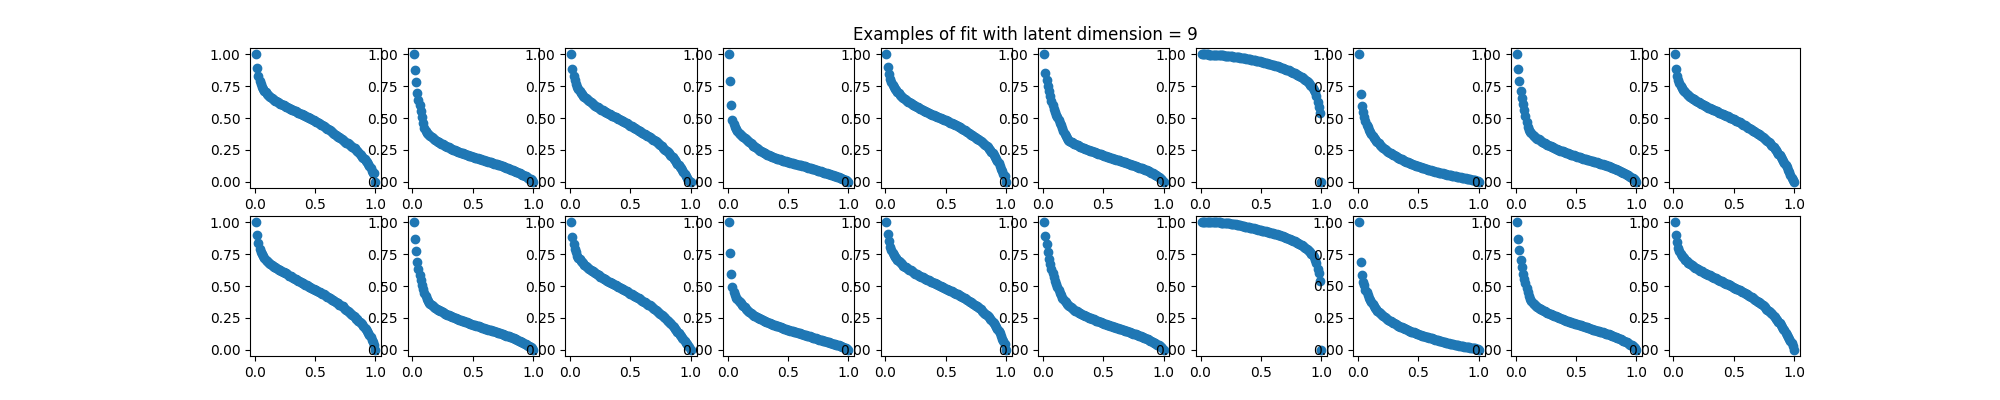
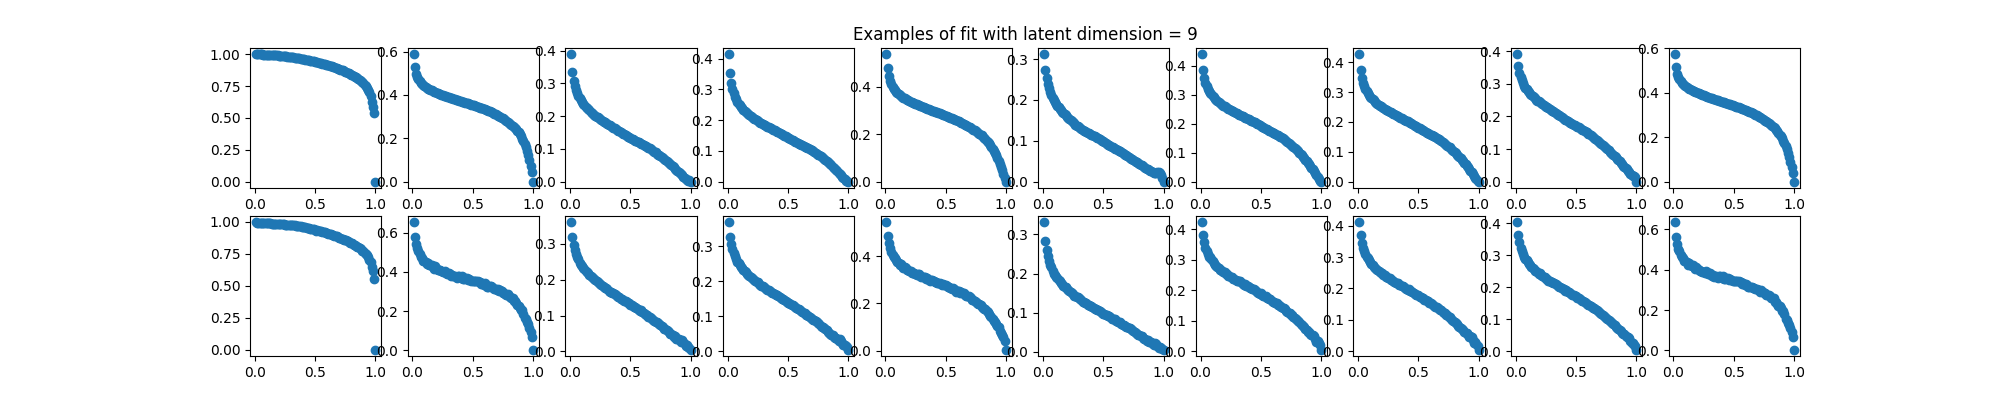
finished multi feature import (with more than 1 the network doesnt work tho)

diff --git a/project/main.py b/project/main.py
@@ -3,181 +3,151 @@ import pandas as pd
 import matplotlib.pyplot as plt
 import numpy as np
 import tensorflow as tf
-import os 
+import os
 import re
 
 from tensorflow import keras
-from sklearn.metrics import accuracy_score, precision_score, recall_score
 from sklearn.model_selection import train_test_split
-from keras import layers, losses, metrics
-from keras.datasets import fashion_mnist
+from keras import layers, losses
 from keras.models import Model
 from scipy.interpolate import UnivariateSpline
-from sklearn.preprocessing import MinMaxScaler
+from tqdm import tqdm
+
+##########IMPORT PARAMETERS##########
+cwd = os.getcwd()
+dir_names = ['MESA-Web_M07_Z00001', 'MESA-Web_M07_Z002']  # type 'all' if you want to use all the data
+column_filter = ['mass', 'radius', 'initial_mass', 'initial_z', 'star_age', 'logRho', 'logT',
+                 'Teff', 'energy', 'photosphere_L', 'photosphere_r', 'star_mass', 'h1', 'he3', 'he4']
+column_filter_train = ['logRho']  # radius is not included for coding reasons but is still considered
+n_points = 100  # n of points to sample from each profile
+r = np.linspace(0, 1, n_points + 1)[1:]  # values of normalized r on which to take the values of the variables
+
+if dir_names[0] == 'all':
+    dir_names = ['MESA-Web_M07_Z00001', 'MESA-Web_M07_Z002', 'MESA-Web_M10_Z002', 'MESA-Web_M10_Z0001',
+                 'MESA-Web_M10_Z00001', 'MESA-Web_M15_Z0001', 'MESA-Web_M15_Z00001', 'MESA-Web_M30_Z00001',
+                 'MESA-Web_M30_Z002', 'MESA-Web_M50_Z00001', 'MESA-Web_M50_Z002', 'MESA-Web_M50_Z001',
+                 'MESA-Web_M5_Z002', 'MESA-Web_M5_Z0001', 'MESA-Web_M1_Z00001', 'MESA-Web_M1_Z0001']
+
 
 ##Autoencoder class definition
 class Autoencoder(Model):
-    
     def __init__(self, encoder_neurons, decoder_neurons, encoder_activations, decoder_activations):
+        ##input check
+        if not len(encoder_neurons) == len(encoder_activations):
+            raise ValueError('The vector of neuron numbers for the encoder should be the same size of the activations')
+        if not len(decoder_neurons) == len(decoder_activations):
+            raise ValueError('The vector of neuron numbers for the decoder should be the same size of the activations')
 
-      ##input check
-      if not len(encoder_neurons)==len(encoder_activations):
-        raise ValueError('The vector of neuron numbers for the encoder should be the same size of the activations')
-      if not len(decoder_neurons)==len(decoder_activations):
-        raise ValueError('The vector of neuron numbers for the decoder should be the same size of the activations')
+        encoder_layers = []
+        decoder_layers = []
 
-      encoder_layers=[]
-      decoder_layers=[]
+        ##define the encoder
+        input_shape = keras.Input(shape=(decoder_neurons[-1],))
+        encoded = layers.Dense(encoder_neurons[0], activation=encoder_activations[0])(input_shape)
+        for i in range(1, len(encoder_neurons)):
+            encoded = layers.Dense(encoder_neurons[i], activation=encoder_activations[i])(encoded)
 
-      ##define the encoder
-      input_shape = keras.Input(shape=(decoder_neurons[-1],))
-      encoded = layers.Dense(encoder_neurons[0],activation=encoder_activations[0])(input_shape)
-      for i in range(1,len(encoder_neurons)):
-        encoded = layers.Dense(encoder_neurons[i],activation=encoder_activations[i])(encoded)
+        ##define the decoder
+        decoded = layers.Dense(decoder_neurons[0], activation=decoder_activations[0])(encoded)
+        for i in range(1, len(decoder_neurons)):
+            decoded = layers.Dense(decoder_neurons[i], activation=decoder_activations[i])(decoded)
 
-      ##define the decoder
-      decoded = layers.Dense(decoder_neurons[0],activation=decoder_activations[0])(encoded)
-      for i in range(1,len(decoder_neurons)):
-        decoded = layers.Dense(decoder_neurons[i],activation=decoder_activations[i])(decoded)
-      
-      super().__init__(input_shape,decoded)
-
-###Import parameters
-cwd=os.getcwd()
-dir_names = ['all']    #type 'all' if you want to use all the data  
-column_filter = ['mass','radius', 'initial_mass', 'initial_z', 'star_age', 'logRho','logT','Teff','energy','photosphere_L', 'photosphere_r', 'star_mass','h1','he3','he4']
-column_filter_train = ['mass','radius', 'logRho','logT','energy','h1','he3','he4']
-n_points=100
-r=np.linspace(0,1,n_points+1)[1:]
-
-if (dir_names[0]=='all'):
-  dir_names=['MESA-Web_M07_Z00001', 'MESA-Web_M07_Z002','MESA-Web_M10_Z002','MESA-Web_M10_Z0001', 'MESA-Web_M10_Z00001','MESA-Web_M15_Z0001', 'MESA-Web_M15_Z00001', 'MESA-Web_M30_Z00001', 'MESA-Web_M30_Z002','MESA-Web_M50_Z00001', 'MESA-Web_M50_Z002', 'MESA-Web_M50_Z001', 'MESA-Web_M5_Z002', 'MESA-Web_M5_Z0001', 'MESA-Web_M1_Z00001', 'MESA-Web_M1_Z0001']
-
-for i,dir_name in enumerate(dir_names):
-
-  print(f"####\t\tIMPORTING DATA FROM FOLDER {dir_name}\t\t####")
-  dir_name=os.path.join(cwd,'StellarTracks',dir_name)
-
-  def extract_number(filename):
-    match = re.search(r'\d+', filename)  #find the sequence of digits
-    return int(match.group()) if match else float('inf')
-
-  filenames=[filename for filename in os.listdir(dir_name) if re.fullmatch('profile[0-9]+\.data',filename)]
-  filenames=sorted(filenames, key=extract_number) #sort the elements according to the number in the name
-
-  for j,filename in enumerate(filenames):
-
-    print(f"####\t\t\tIMPORTING FILE {filename}\t\t\t####")  
-    filename=os.path.join(dir_name,filename)
-
-    data=mw.read_profile(filename)
-
-    profile_df=pd.DataFrame(data)
-
-    # Create a new DataFrame with only the selected columns
-    filtered_profile_df = profile_df[column_filter].copy()
-    # Create a new DataFrame with only the selected columns for autoencoder training
-    train_filtered_profile_df = profile_df[column_filter_train].copy()
-
-    #Normalization process
-    tot_radius=filtered_profile_df['photosphere_r']
-    #tot_mass=filtered_profile_df['star_mass']
-    #From log to linear scale
-    #train_filtered_profile1_df['logRho']=10**(train_filtered_profile1_df['logRho'])
-    #train_filtered_profile1_df['logT']=10**(train_filtered_profile1_df['logT'])
-
-    norm_radius=(filtered_profile_df['radius']-filtered_profile_df['radius'].min())/(tot_radius-filtered_profile_df['radius'].min())
-    #norm_mass=(filtered_profile_df['mass']-filtered_profile_df['mass'].min())/(tot_mass-filtered_profile_df['mass'].min())
-    #norm_rho=(train_filtered_profile1_df['logRho']-train_filtered_profile1_df['logRho'].min())/(train_filtered_profile1_df['logRho'].max()-train_filtered_profile1_df['logRho'].min())
-    #norm_t=(train_filtered_profile_df['logT']-train_filtered_profile_df['logT'].min())/(train_filtered_profile_df['logT'].max()-train_filtered_profile_df['logT'].min())
-    #norm_energy=(train_filtered_profile_df['energy']-train_filtered_profile_df['energy'].min())/(train_filtered_profile_df['energy'].max()-train_filtered_profile_df['energy'].min())
-
-    norm_radius=np.asarray(norm_radius.T)
-    log_rho=np.asarray(train_filtered_profile_df['logRho'].T)
-    #norm_mass=np.asarray(norm_mass.T)
-    #norm_t=np.asarray(norm_t.T)
-    #norm_energy=np.asarray(norm_energy.T)
-    int_log_rho=UnivariateSpline(norm_radius,log_rho,k=2,s=0)(r)
-
-    train_df=pd.DataFrame(data=int_log_rho.T,columns=[f"log_rho_{i}_{j}"])  #in the format _indexOfFolder_IndexOfProfile
-  
-    if (i==0 and j==0):
-      linear_train_df=train_df
-    else:
-      linear_train_df=pd.concat([linear_train_df,train_df],axis=1)
+        super().__init__(input_shape, decoded)
 
 
-scaler = MinMaxScaler()
-linear_train_df = pd.DataFrame(scaler.fit_transform(linear_train_df), columns=linear_train_df.columns)
+# Initialize an empty list to hold all the profiles
+all_profiles = []
 
-print(linear_train_df.shape)
-print(linear_train_df)
+for i, dir_name in enumerate(tqdm(dir_names, desc="Importing data from directories")):
+    dir_path = os.path.join(cwd, 'StellarTracks', dir_name)
 
+    def extract_number(filename):
+        match = re.search(r'\d+', filename)  # find the sequence of digits
+        return int(match.group()) if match else float('inf')
 
-x_train, x_test = train_test_split(linear_train_df.T, test_size=0.2)
-x_train = x_train.values
-x_test = x_test.values
+    filenames = [filename for filename in os.listdir(dir_path) if re.fullmatch('profile[0-9]+\.data', filename)]
+    filenames = sorted(filenames, key=extract_number)  # sort the elements according to the number in the name
+
+    for j, filename in enumerate(tqdm(filenames, desc=f"Importing from {dir_name}", leave=False)):
+        filename = os.path.join(dir_path, filename)
+        data = mw.read_profile(filename)
+        profile_df = pd.DataFrame(data)
+        filtered_profile_df = profile_df[column_filter].copy()
+        train_filtered_profile_df = profile_df[column_filter_train].copy()
+
+        norm_radius = (filtered_profile_df['radius'] - filtered_profile_df['radius'].min()) / \
+                      (filtered_profile_df['radius'].max() - filtered_profile_df['radius'].min())
+        norm_profiles = []
+
+        for k, column in enumerate(column_filter_train):
+            norm = (filtered_profile_df[column] - filtered_profile_df[column].min()) / \
+                   (filtered_profile_df[column].max() - filtered_profile_df[column].min())
+            norm = np.asarray(norm.T)
+            int_norm = UnivariateSpline(norm_radius, norm, k=2, s=0)(r)
+            norm_profiles.append(int_norm)
+            print("Length of this profile: ",len(norm_profiles))
+
+        all_profiles.append(np.array(norm_profiles).T)
+        print("Num profiles: ", len(all_profiles))
+
+# Convert the list of profiles to a numpy array
+all_profiles = np.array(all_profiles)
+print("Final length of all profiles",len(all_profiles))
+
+# Split the data
+x_train, x_test = train_test_split(all_profiles, test_size=0.2)
 print(x_train.shape)
 print(x_test.shape)
-print(x_train)
-print(x_test)
-shape = x_test.shape[1:]
-save_graphs=True
 
-for i in range(1,10):
+for i in range(1, 10):
+    ###Autoencoder parameters
+    encoder_neurons = [100, i]  # last value should be the latent dimension
+    decoder_neurons = encoder_neurons[:len(encoder_neurons) - 1][::-1]  # same inverted values for the hidden layers
+    decoder_neurons.append(n_points*len(column_filter_train))  # last value should be original size
+    encoder_activations = ['relu'] * len(encoder_neurons)  # with relu better learning
+    decoder_activations = ['relu'] * (len(encoder_neurons) - 1)  # relu for better learning
+    decoder_activations.append('sigmoid')  # at least the last value should be sigmoid
 
-  ###Autoencoder parameters
-  encoder_neurons=[100,i]                                         #last value should be the latent dimention
-  decoder_neurons=encoder_neurons[:len(encoder_neurons)-1][::-1]            #same inverted values for the hidden layers
-  decoder_neurons.append(n_points)                                          #last value should be original size
-  encoder_activations=['relu']*len(encoder_neurons)                         #with relu better learning
-  decoder_activations=['relu']*(len(encoder_neurons)-1)                     #relu for better learning
-  decoder_activations.append('sigmoid')                                     #at least the last value should be sigmoid
+    autoencoder = Autoencoder(encoder_neurons=encoder_neurons, decoder_neurons=decoder_neurons,
+                              encoder_activations=encoder_activations, decoder_activations=decoder_activations)
 
-  
-  autoencoder = Autoencoder(encoder_neurons=encoder_neurons,decoder_neurons=decoder_neurons,\
-                            encoder_activations=encoder_activations,decoder_activations=decoder_activations)
+    autoencoder.compile(optimizer='adam', loss=losses.MeanSquaredError())
+    autoencoder.summary()
 
-  autoencoder.compile(optimizer='adam', loss=losses.MeanSquaredError())
+    history = autoencoder.fit(x_train, x_train,
+                              epochs=1000,
+                              shuffle=True,
+                              validation_data=(x_test, x_test),
+                              callbacks=[tf.keras.callbacks.EarlyStopping(monitor='val_loss', patience=10)])
 
-  autoencoder.summary()
-  #for layer in autoencoder.layers: print(layer.get_config(), layer.get_weights())
-  
-  history = autoencoder.fit(x_train, x_train,
-                  epochs=1000,
-                  shuffle=True,
-                  validation_data=(x_test, x_test),
-                  callbacks=[tf.keras.callbacks.EarlyStopping(monitor='val_loss', patience=10)])
-  
-  #print(history.history)
-
-  if save_graphs:
-    file_save_dir=os.path.join(os.getcwd(),"Graphs",f"TrainValLoss_dim_{i}.png")
+    # Save loss graphs
+    file_save_dir = os.path.join(os.getcwd(), "Graphs", f"TrainValLoss_dim_{i}.png")
     plt.plot(history.history["loss"], label="Training Loss")
     plt.plot(history.history["val_loss"], label="Validation Loss")
     plt.title(f'Training Loss VS Validation Loss - Latent Dim = {i}')
     plt.legend()
     plt.savefig(file_save_dir)
     plt.close()
-  
-  x_reconstructed = autoencoder.predict(x_test)
-  print(x_reconstructed.shape)
-  
-  n = 10  # How many digits we will display
-  plt.figure(figsize=(20, 4))
-  plt.axis("off")
-  plt.title(f'Examples of fit with latent dimension = {i}')
-  for j in range(n):
-      # Display original
-      ax = plt.subplot(2, n, j + 1)
-      plt.scatter(r,x_test[j])
-      plt.gray()
 
-      # Display reconstruction
-      ax = plt.subplot(2, n, j + 1 + n)
-      plt.scatter(r,x_reconstructed[j])
-      plt.gray()
-  
-  file_save_dir=os.path.join(os.getcwd(),"Graphs",f"OriginalReconstructed_{i}.png")
-  plt.savefig(file_save_dir)
-  plt.close()
+    x_reconstructed = autoencoder.predict(x_test)
+    print(x_reconstructed.shape)
+
+    # Plot and save original vs reconstructed profiles
+    n = 10  # How many profiles we will display
+    plt.figure(figsize=(20, 4))
+    plt.axis("off")
+    plt.title(f'Examples of fit with latent dimension = {i}')
+    for j in range(n):
+        # Display original
+        ax = plt.subplot(2, n, j + 1)
+        plt.scatter(r, x_test[j].reshape(-1, n_points)[0])
+        plt.gray()
+
+        # Display reconstruction
+        ax = plt.subplot(2, n, j + 1 + n)
+        plt.scatter(r, x_reconstructed[j].reshape(-1, n_points)[0])
+        plt.gray()
+
+    file_save_dir = os.path.join(os.getcwd(), "Graphs", f"OriginalReconstructed_{i}.png")
+    plt.savefig(file_save_dir)
+    plt.close()
